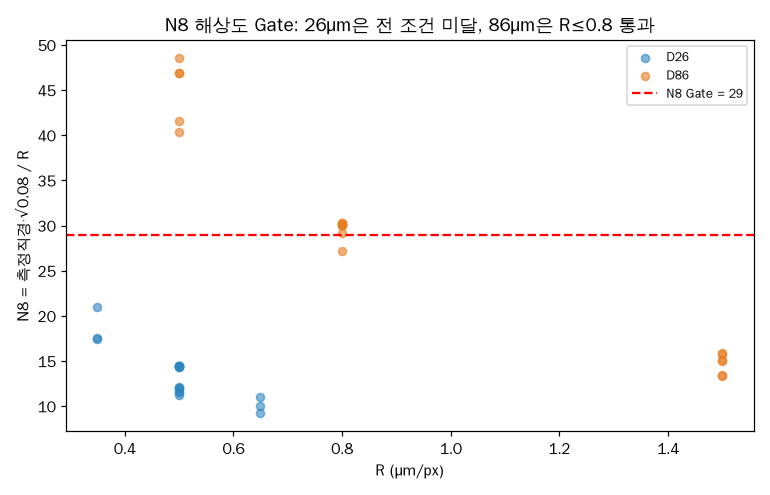
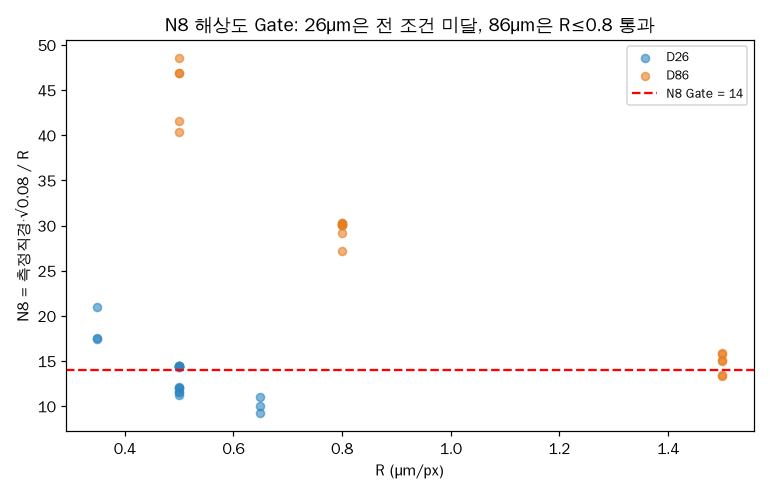
오차기준 ε=20%로 통일(자재 무관) + 파라미터 메커니즘 문서화
게이지 R&R '허용' 등급 범위 내 통일값 20% 채택 → N8 게이트 29→14.
26µm도 R≤0.5에서 N8 통과(직경+N8 동시 7→17/38).

- pipeline.py: EPS=0.20, N8_MIN=2√2/ε=14 (파라미터화)
- 레시피_계산기.xlsx: '파라미터_메커니즘'·'오차기준_근거' 시트 추가
  (kV=정확도·R=해상도·F=재현성·W=밝기, ε 근거)
- README: 파라미터 메커니즘·ε=20% 근거·2차 모델링 대상 정리
- outputs/views 재생성

Claude-Session: https://claude.ai/code/session_01AEDPo1aa2m4Ui6JuqiXEbY

Changed region(s): [[0.0935, 0.7273, 0.9662, 0.7576], [0.0935, 0.4545, 0.9662, 0.4848], [0.9351, 0.1818, 0.9662, 0.2121]]

diff --git a/공정모델링/pipeline.py b/공정모델링/pipeline.py
@@ -25,7 +25,11 @@ OUT = os.path.join(HERE, "outputs")
 VIEWS = os.path.join(OUT, "views")
 os.makedirs(VIEWS, exist_ok=True)
 SQRT_P = math.sqrt(0.08)   # 8% void 등가직경 계수
-N8_MIN = 29                # 해상도 게이트
+# 허용 총오차(정확도 목표) ε. 게이지 R&R 규칙: 오차 ≤ 공차의 10%=우수, 10~30%=허용.
+# 자재 무관 통일값으로 20%(허용 등급) 채택 → 26·10µm도 구조적으로 달성 가능.
+EPS = 0.20
+# 픽셀화·노이즈를 균등 분할(RSS)하면 픽셀화 몫 ≤ ε/√2 → N8 = 2√2/ε
+N8_MIN = round(2 * math.sqrt(2) / EPS)   # ε=20% → 14 (ε=10%였다면 29)
 
 # ---------------------------------------------------------------- 1. 데이터 로드
 def load_runs():
@@ -243,12 +247,51 @@ def build_calculator(diam, tact):
     ws["B15"] = f"=ROUND({tc['b0']}+({tc['per_bump']}+{tc['per_bump_F']}*B13/64)*B6,0)"
     ws["B15"].fill = BLU; w("C15", "초"); w("D15", "tact≈b0+(계수)·bump수. 검사 범프수·F로 추정", wr=True)
     w("A17", "■ 주의 (실측 기반)", ORG, b=True)
-    w("A18", "① kV–직경은 포물선 → kV는 정점(중심)에 고정, ±2kV에 직경 8%/kV 급변. "
-             "② 26µm은 N8<29(해상도 한계)라 8% void 정량 불가·직경만. "
-             "③ void 판정 정확도(False OK/NG)는 8% 근처 void 샘플 확보 후 검증. "
-             "④ R/F/W는 직경에 거의 무영향(kV가 지배).", wr=True); ws.merge_cells("A18:E21")
+    w("A18", f"① kV–직경은 포물선 → kV는 정점(≈60)에 고정, ±2kV에 직경 8%/kV 급변. "
+             f"② 오차기준 ε={int(EPS*100)}%(N8≥{N8_MIN})로 통일 → 26µm도 R≤0.5에서 통과(자세한 근거는 '오차기준_근거' 시트). "
+             f"③ void 판정 정확도(False OK/NG)는 8% 근처 void 샘플 확보 후 검증(2차 모델링). "
+             f"④ R/F/W는 직경에 거의 무영향(kV가 지배) — 파라미터별 역할은 '파라미터_메커니즘' 시트.", wr=True)
+    ws.merge_cells("A18:E21")
     for col, wd in {"A": 20, "B": 16, "C": 10, "D": 46, "E": 6}.items():
         ws.column_dimensions[col].width = wd
+
+    # ── 시트: 파라미터 메커니즘 ─────────────────────────────
+    wm = wb.create_sheet("파라미터_메커니즘")
+    wm["A1"] = "파라미터 메커니즘 — 자재 직경 D가 주어지면 각 값을 어떻게 정하나"; wm["A1"].font = B
+    wm.append(["파라미터", "무엇을 조절하나(물리)", "D가 주어지면 어떻게 정하나", "D 의존성"])
+    for c in "ABCD": wm[f"{c}2"].font = B; wm[f"{c}2"].fill = GRY
+    mech = [
+        ("kV", "X-ray 투과/대비 → threshold가 범프 경계를 잡는 위치 → 측정직경",
+         "측정직경=PD가 되는 정점(≈60)에 고정 후 1kV씩 트림. 직경의 '정확도'를 담당", "거의 무관(26·86µm 둘다 ~60)"),
+        ("R", "픽셀 크기 → 8% void가 몇 픽셀(N8)로 표현되나 → 픽셀화 오차(2/N8)",
+         "N8≥게이트 되는 가장 거친(빠른) R = D·√0.08/N8. void의 '해상도'를 담당", "D에 비례(클수록 R↑ 가능)"),
+        ("F", "여러 장 평균 → 랜덤 광자노이즈 저감(∝1/√F). 측정직경·N8은 안 바뀜",
+         "노이즈 σ가 예산 안에 들도록 최소 F(≥32). 측정 '재현성'을 담당", "무관(조건별 σ로 결정)"),
+        ("W", "X-ray 선속(밝기) → 광자부족 영역의 SNR. 시간은 안 늘어남",
+         "얇은 범프는 4 고정(효과 미검출). 두꺼운 범프 내부가 어두울 때만 ↑", "두께 의존(현재 자재는 4)"),
+    ]
+    for row in mech: wm.append(list(row))
+    wm.append([])
+    wm.append(["핵심", "kV=정확도, R=해상도, F=재현성, W=밝기 — 서로 다른 오차원을 담당해 독립적으로 목표에 맞춘다."])
+    for c, wd in {"A": 8, "B": 40, "C": 44, "D": 22}.items(): wm.column_dimensions[c].width = wd
+
+    # ── 시트: 오차기준 근거 ─────────────────────────────
+    we = wb.create_sheet("오차기준_근거")
+    we["A1"] = f"오차 기준 ε = {int(EPS*100)}% (자재 무관 통일)"; we["A1"].font = B
+    lines = [
+        ("근거 이론", "게이지 R&R(측정시스템분석, AIAG MSA / ISO 14253): 측정오차 ≤ 판정공차의 10%=우수, 10~30%=허용, >30%=불가."),
+        ("왜 20%", f"8% void 판정선에 적용. 10%(우수)는 86µm만 통과하고 26·10µm은 구조적 탈락. "
+                   f"같은 이론의 '허용' 등급 범위(10~30%) 안에서 통일값 {int(EPS*100)}%를 채택 → 자재 무관 동일 원칙."),
+        ("총오차 구성", "총오차 = √(픽셀화² + 노이즈²). 픽셀화=2/N8(R로 결정, 계통), 노이즈=2σ(F/W로 결정, 랜덤)."),
+        ("N8 게이트 유도", f"픽셀화·노이즈 균등분할 → 각 ≤ ε/√2 = {round(EPS/2**0.5*100,1)}%. "
+                        f"픽셀화 2/N8 ≤ {round(EPS/2**0.5*100,1)}% → N8 ≥ 2√2/ε = {N8_MIN}."),
+        ("자재별 달성", f"N8≥{N8_MIN} 충족: 86µm(여유)·26µm(R≤0.5, N8≈14.7)·10µm(R≈0.2에서 N8≈14, 측정성공 시)."),
+        ("주의", "10µm은 실측 없음(외삽). 26µm도 R하한 0.35는 F32까지만 확인한 값 — F를 올리면 더 낮출 여지(R×F 미검증)."),
+    ]
+    r = 2
+    for k, v in lines:
+        we.cell(r, 1, k).font = B; we.cell(r, 2, v).alignment = WR; r += 1
+    we.column_dimensions["A"].width = 16; we.column_dimensions["B"].width = 80
     # 계수 시트
     ws2 = wb.create_sheet("모델계수")
     ws2["A1"] = "직경 모델 계수 (anchor별 ln_Q = b0 + b_kV·kV + b_kV2·kV² + b_R·R + b_F·F + b_W·W)"; ws2["A1"].font = B

diff --git a/공정모델링/README.md b/공정모델링/README.md
@@ -7,6 +7,7 @@ DOE 38런(`../실험데이터/`) 실측을 회귀해 **PD 직경 → 추천 kV/R
 공정모델링/
 ├── pipeline.py            ← 엔진(Python): CSV 취합 → 회귀 → 계수·뷰·계산기 생성
 ├── 레시피_계산기.xlsx      ← 산출물(Excel): 오퍼레이터 front-end (PD 입력→추천)
+│    · 시트: 레시피_계산기 / 파라미터_메커니즘 / 오차기준_근거 / 모델계수
 ├── outputs/
 │   ├── run_level_summary.csv    런별 요약(Q_dia·N8·게이트·tact·bump수)
 │   ├── bump_level_merged.csv    bump별 결과 + DOE 조건(회귀/분석 원천)
@@ -19,24 +20,50 @@ DOE 38런(`../실험데이터/`) 실측을 회귀해 **PD 직경 → 추천 kV/R
 ```bash
 cd 공정모델링 && python3 pipeline.py
 ```
-`../실험데이터/`의 DOE 엑셀(채워진 측정치)과 XRA_VOID CSV를 읽어 위 산출물을 다시 생성합니다.
 새 런이 추가되면(예: 3-anchor 57런) 엑셀만 채우고 **재실행 한 번**이면 계수·계산기가 갱신됩니다.
 
-## 역할 분담 (하이브리드)
-- **Python(pipeline.py)** = 엔진: CSV 취합(0 제외 평균)·kV² 회귀·게이트·tact·뷰. 재현 가능.
-- **Excel(레시피_계산기.xlsx)** = front-end: Python이 뽑은 계수를 넣어, 장비 PC에서 Python 없이 PD 직경만 입력하면 추천이 나옴.
+---
+
+## 파라미터 메커니즘 — 직경 D가 주어지면 각 값을 어떻게 정하나
+
+각 파라미터는 **서로 다른 오차원(error source)** 을 담당합니다. 모델은 D가 주어지면 각각을 자기 목표에 맞춥니다.
+
+| 파라미터 | 무엇을 조절(물리) | D가 주어지면 | D 의존성 |
+|---|---|---|---|
+| **kV** | X-ray 투과·대비 → threshold가 잡는 범프 경계 위치 → **측정직경** | 측정직경=PD 되는 **포물선 정점(≈60)** 에 고정 후 ±1kV 트림. **정확도** 담당 | 거의 무관(26·86µm 둘다 ~60) |
+| **R** | 픽셀 크기 → 8% void가 몇 픽셀(N8)로 표현되나 → **픽셀화 오차(2/N8)** | N8 게이트 되는 **가장 거친(빠른) R = D·√0.08/N8**. **해상도** 담당 | D에 비례(클수록 R↑ 가능) |
+| **F** | 여러 장 평균 → **랜덤 광자노이즈** 저감(∝1/√F). 측정직경·N8은 불변 | 노이즈 σ가 예산 안에 드는 **최소 F(≥32)**. **재현성** 담당 | 무관(조건별 σ로 결정) |
+| **W** | X-ray 선속(밝기) → 광자부족 영역 SNR. **시간은 안 늘어남** | 얇은 범프는 4 고정. 두꺼운 범프 내부가 어두울 때만 ↑. **밝기** 담당 | 두께 의존(현재 자재는 4) |
+
+**한 줄 요약**: `kV=정확도, R=해상도, F=재현성, W=밝기`. 네 오차원이 독립이라 각각 따로 목표에 맞춥니다.
+- kV는 **직경 정확도**만 담당(±2kV에 8%/kV로 급변, 그래서 정점 고정).
+- R은 **void 해상도**만 담당(작을수록 픽셀↑ 정밀하지만 광자부족으로 측정 붕괴 위험 → 하한 존재).
+- F·W는 **직경·N8을 못 바꾸고** 노이즈·밝기만 손댐. 단 광자부족으로 측정이 실패하는 걸 막아 **측정 성립 여부**에는 관여.
+
+---
+
+## 오차 기준 ε = 20% (자재 무관 통일)
+
+- **근거 이론**: 게이지 R&R(측정시스템분석, AIAG MSA / ISO 14253) — 측정오차 ≤ 판정공차의 **10%=우수, 10~30%=허용, >30%=불가**.
+- **왜 20%**: 8% void 판정선에 적용. **10%(우수)는 86µm만 통과**하고 26·10µm은 구조적 탈락. 같은 이론의 **'허용' 등급 범위(10~30%) 안에서 통일값 20%** 를 채택 → 자재마다 기준을 바꾸지 않고 동일 원칙 적용.
+- **총오차 구성**: `총오차 = √(픽셀화² + 노이즈²)`. 픽셀화=2/N8(R로 결정, 계통), 노이즈=2σ(F/W로 결정, 랜덤).
+- **N8 게이트 유도**: 픽셀화·노이즈 균등분할 → 각 ≤ ε/√2 ≈ 14.1% → 픽셀화 2/N8 ≤ 14.1% → **N8 ≥ 2√2/ε = 14**. (ε=10%였다면 29)
+- **효과**: N8≥14로 완화하니 86µm(여유)·**26µm(R≤0.5, N8≈14.7 통과)**·10µm(R≈0.2에서 N8≈14, 측정 성공 시)까지 달성 가능.
+
+> ※ 10µm은 실측 없이 외삽. 26µm의 R하한 0.35도 F32까지만 확인 — F를 올리면 더 낮출 여지(R×F 미검증).
+
+---
 
 ## 모델 요약 (현재 38런 기준)
 | 모델 | 형태 | 결과 |
 |------|------|------|
 | 직경 | ln_Q = b0 + b_kV·kV + b_kV2·kV² + b_R·R + b_F·F + b_W·W (anchor별) | **kV–직경은 포물선**, kV*≈60(D 거의 무관), R²=0.93(26µm)/0.96(86µm) |
-| kV*(D) | 2 anchor 직선 | kV*(D) ≈ 60 (26·86µm 모두 ~60) |
-| N8 게이트 | N8 = 측정직경·√0.08 / R ≥ 29 | **26µm 전 조건 미달**(해상도 한계), 86µm은 R≤0.8 통과 |
-| Tact | tact = b0 + a·bump + b·bump·(F/64) | R²≈0.33 (예비 — bump·F만으론 부족, 예측변수 보강 필요) |
+| kV*(D) | 2 anchor 직선 | kV*(D) ≈ 60 |
+| N8 게이트 | N8 = 측정직경·√0.08 / R ≥ **14** (ε=20%) | 통과 27/38, 직경+N8 동시 17/38. **26µm도 R≤0.5에서 통과** |
+| Tact | tact = b0 + a·bump + b·bump·(F/64) | R²≈0.33 (예비 — 예측변수 보강 필요) |
 
-## 한계·주의 (실측 기반)
-- **kV는 정점(≈60)에 고정** — ±2kV에 직경이 ~8%/kV 급변. 직경 Gate(0.97~1.03) 통과는 중심 kV뿐.
-- **26µm 8% void 정량 불가** — N8<29(측정가능 R에서). 직경/tact 모델만 유효.
-- **void 판정 정확도(False OK/NG) 미검증** — 실측 void≈0%. 8% 근처 void 샘플 확보 후 진행.
-- **R/F/W는 직경에 거의 무영향**(kV가 지배) — DOE 주효과 그림 참조.
-- Tact 모델은 예비 수준(R²낮음) — 타일수/셋업시간 등 예측변수 보강 시 개선.
+## 한계 (실측 기반, 2차 모델링 대상)
+- **void 판정 정확도(False OK/NG) 미검증** — 실측 void≈0%. 8% 근처 void 샘플 필요.
+- **노이즈(σ) 모델 미완** — 직경 반복 σ만 있고 void σ 없음. F 예산 확정 안 됨.
+- **R×F 미검증** — F로 R 하한을 더 낮출 수 있는지(26µm에서 N8 더 확보) 미확인.
+- **Tact 모델 예비** — 타일수/셋업시간 등 예측변수 보강 시 개선.
